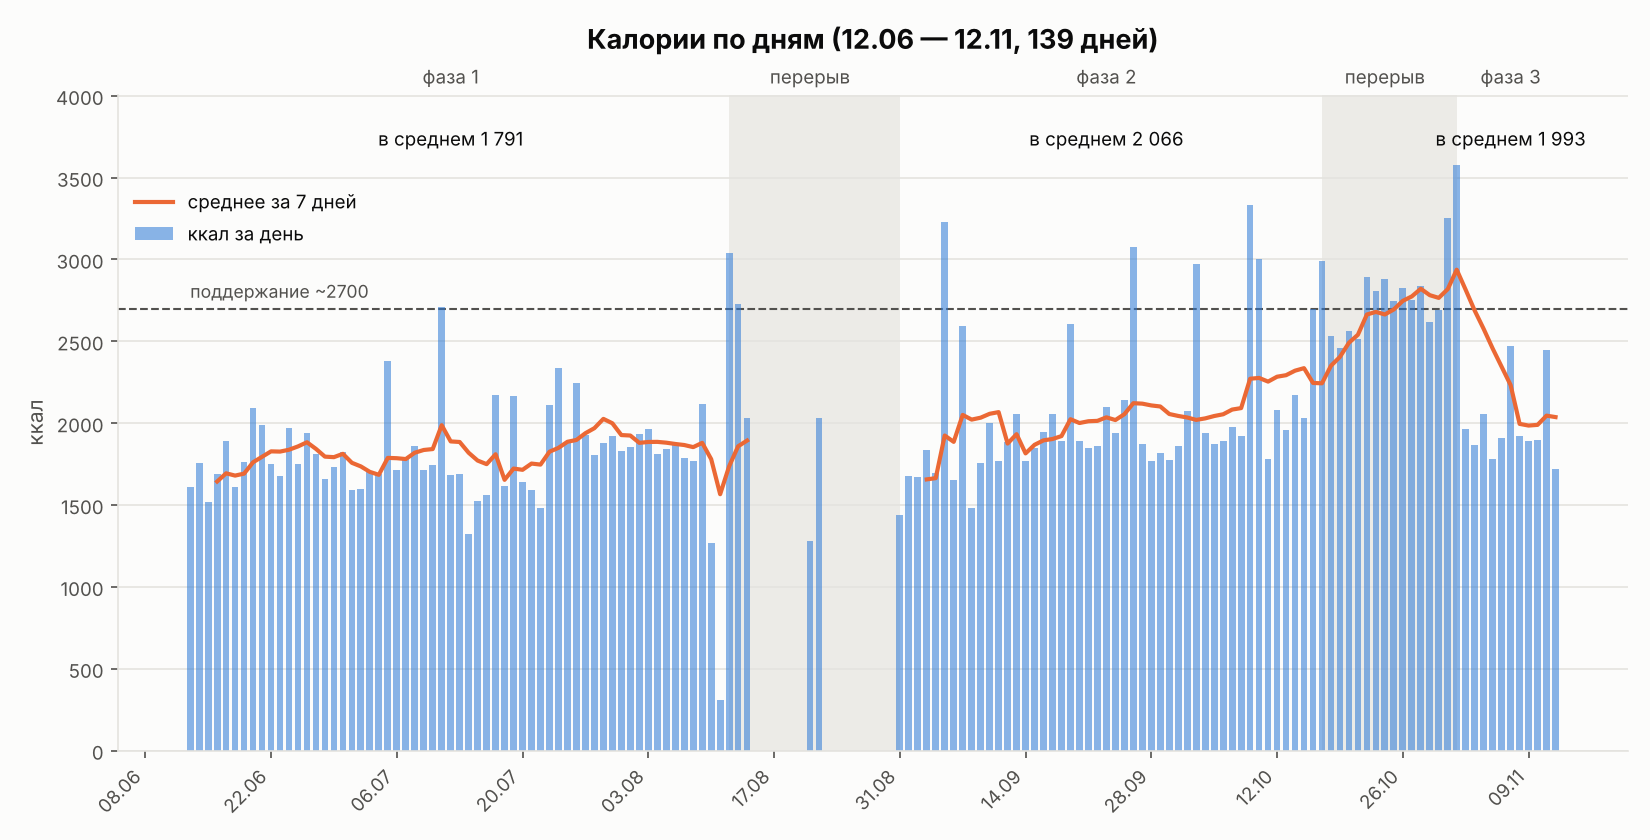
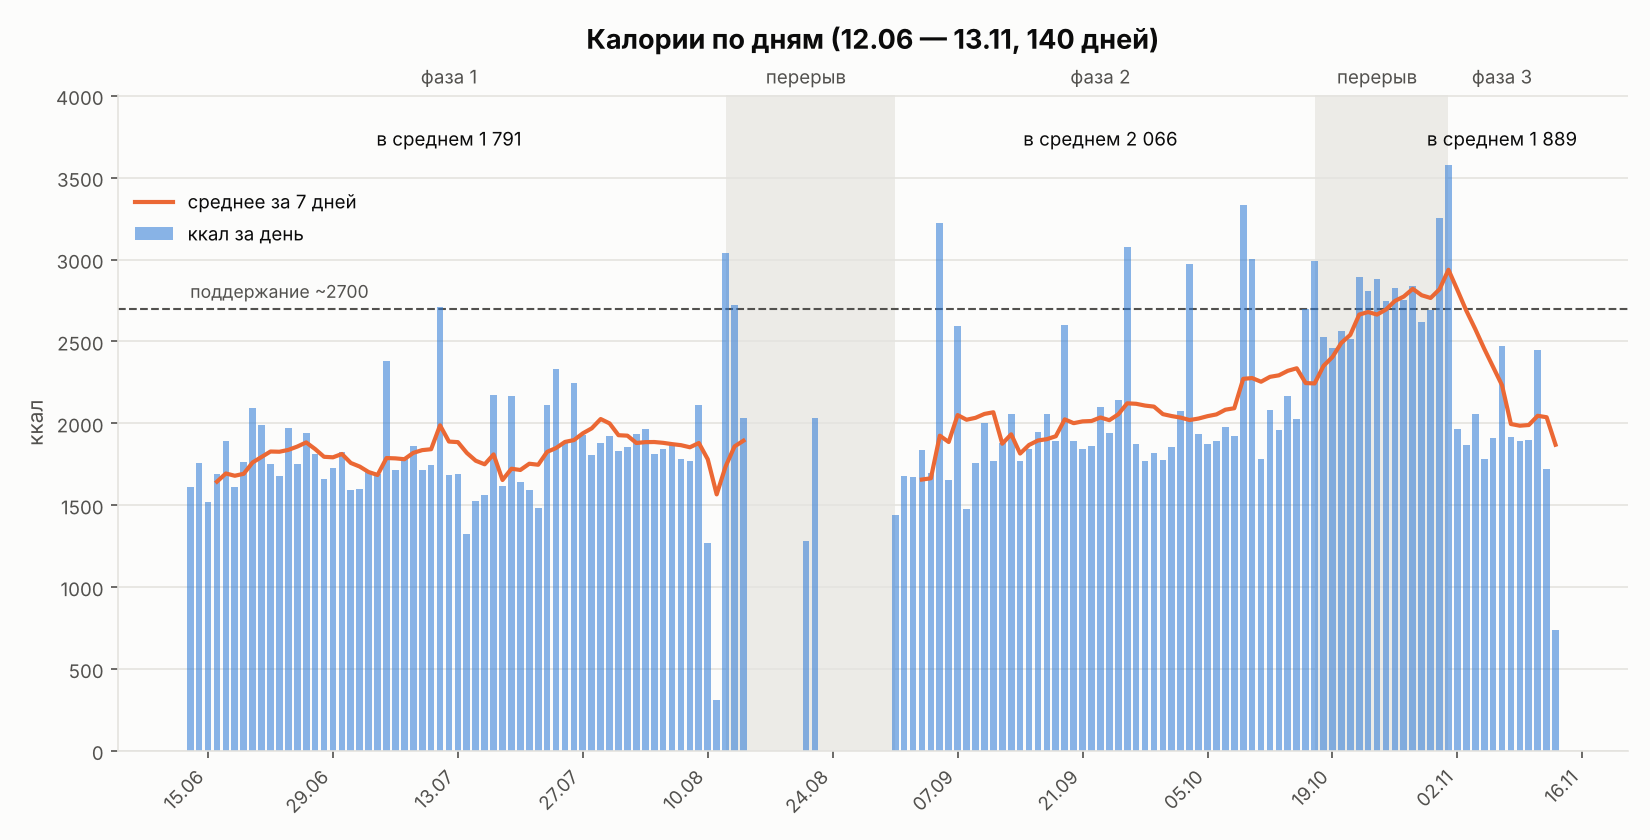
Журнал еды 13.11: завтрак
Яйца, варёная грудка, грейпфрут с дыней, хрен — ~737 ккал / Б 97 г,
по готовой таблице пользователя. До цели 1900 осталось ~1163 ккал.

Claude-Session: https://claude.ai/code/session_01BcPogZpufV1jxrQv9Sbikk

diff --git a/health/журнал-еды.md b/health/журнал-еды.md
@@ -11,6 +11,7 @@
 
 | Дата | Кратко | Ккал | Белок |
 |---|---|---|---|
+| 13.11 (пт) | фаза 3, день 12 · цель 1900 ккал · утром 73,4 (минимум фазы 3) · завтрак варёные яйца 160 г + варёная грудка 256 г + грейпфрут и дыня 374 г + хрен 20 г (день идёт) | ~737＋ | ~97＋ г |
 | 12.11 (чт) | фаза 3, день 11 · цель 1900 ккал · утром 73,6 (минимум фазы 3) · 🏋 зал, ноги: выпады в Смите 45×10 на ногу, разгибания ног 70×8, жим гантелей сидя 17,5×10 · завтрак яблоки 325 г + продукт 188 г (по КБЖУ — куриное филе) + варёные яйца 200 г + хрен «Махеевъ» 22 г / обед овощи на пару 230 г + филе куриной грудки 182 г + чипсы из индейки 100 г / ужин мандарины 193 г + молоко 1,5% 103 г + голубика 129 г + яблоки 269 г / молоко 1,5% 127 г + ещё 200 г · день завершён, ~178 ккал до цели | ~1722 | ~179 г |
 | 11.11 (ср) | фаза 3, день 10 · цель 1900 ккал · утром 74,3 · завтрак исландский скир черника и малина 150 г + филе куриной грудки 182 г / [АВ] капучино 300 мл / [HSE] гречка 150 г + печень по-строгановски 125 г + щи зелёные 250 г + «Цезарь» 100 г + компот 200 г / [ВиТ] капучино 300 мл / флэт уайт 220 мл на молоке 3,2% / ужин куриная грудка с лимонным перцем 177 г + курица с запечённым чесноком 167 г / ужин 2 мандарины 210 г + яблоки 312 г · день завершён, +549 ккал к цели | ~2449 | ~198 г |
 | 10.11 (вт) | фаза 3, день 9 · цель 1900 ккал · утром 74,5 · 🏋 зал, спина + трицепс: тяга к поясу 70×7, трицепс в блоке 36 кг 38 повт., узкий жим прерван — боль в правой кисти · завтрак мандарины 219 г + яблоки 389 г + обезжиренный творог 170 г + молоко 1,5% 102 г + варёные яйца 198 г / молоко 1,5% 90 г / обед голубика 125 г + курица с прованскими травами 200 г + безлактозное молоко 1,5% 99 г + мандарины 146 г + яблоки 362 г / ужин помидоры 226 г + жёлтый и красный перец 300 г + лук 86 г + курица с прованскими травами 186 г / хрен «Махеевъ» 20 г + ещё 14 г / безлактозное молоко 1,5% 400 г · день завершён, ~5 ккал до цели | ~1895 | ~167 г |
@@ -153,6 +154,23 @@
 | 13.06 (сб) | творог+банан / курица+гречка+салат / 3 яйца+огурец / рыба+гречка+огурец | ~1610 | ~170 г |
 | 14.06 (вс) | творог+банан / курица+булгур+салат+бульон / яблоко+3 яйца+огурец / сардина+булгур+огурец | ~1755 | ~168 г |
 | 15.06 (пн) | творог+банан / [вне дома] салат+суп+курица+гречка / 4 яйца / курица+бульон+яблоко+огурец | ~1519 | ~145 г |
+
+---
+
+## 13 ноября (пт) — фаза 3, день 12 · утром 73,4
+
+День в процессе. **Цель — 1900 ккал** (обычный день). Рабочий ориентир БЖУ: **Б 150 (140–160) / Ж 60 / У 190 г**.
+
+| Приём | Что | Ккал | Б | Ж | У |
+|---|---|---|---|---|---|
+| Завтрак | варёные яйца 160 г (значения из таблицы пользователя) | 248 | 20,2 | 17,0 | 1,8 |
+| | варёная грудка 256 г (значения из таблицы пользователя) | 346 | 76,8 | 3,1 | 0 |
+| | грейпфрут и дыня 374 г (калории из таблицы пользователя; БЖУ не указаны) | 131 | — | — | — |
+| | хрен 20 г (значения из таблицы пользователя) | 12 | ≈0 | ≈0 | ≈2 |
+| | *завтрак итого* | *~737* | *~97,0＋* | *~20,1＋* | *~3,8＋* |
+| **Пока за день** | | **~737** | **~97,0＋** | **~20,1＋** | **~3,8＋** |
+
+Заметка: завтрак записан по готовой таблице пользователя без пересчёта: яйца 160 г — 248 ккал / Б 20,2 / Ж 17,0 / У 1,8; варёная грудка 256 г — 346 / 76,8 / 3,1 / 0; грейпфрут и дыня 374 г — 131 ккал, БЖУ не указаны (не приняты за ноль, отсюда «＋»); хрен 20 г — 12 ккал / Б ≈0 / Ж ≈0 / У ≈2 (по калорийности не совпадает с «Махеевъ» 109/100 г — вероятно, другой хрен; сохранено как передано). Итого ≈737 ккал / Б ≈97,0＋ / Ж ≈20,1＋ / У ≈3,8＋ г. До цели 1900 ккал осталось 1163 ккал; до белка 140–160 г — ~43–63 г; до Ж 60 — ~39,9 г; до У 190 — ~186 г (без вклада фруктов).
 
 ---
 
